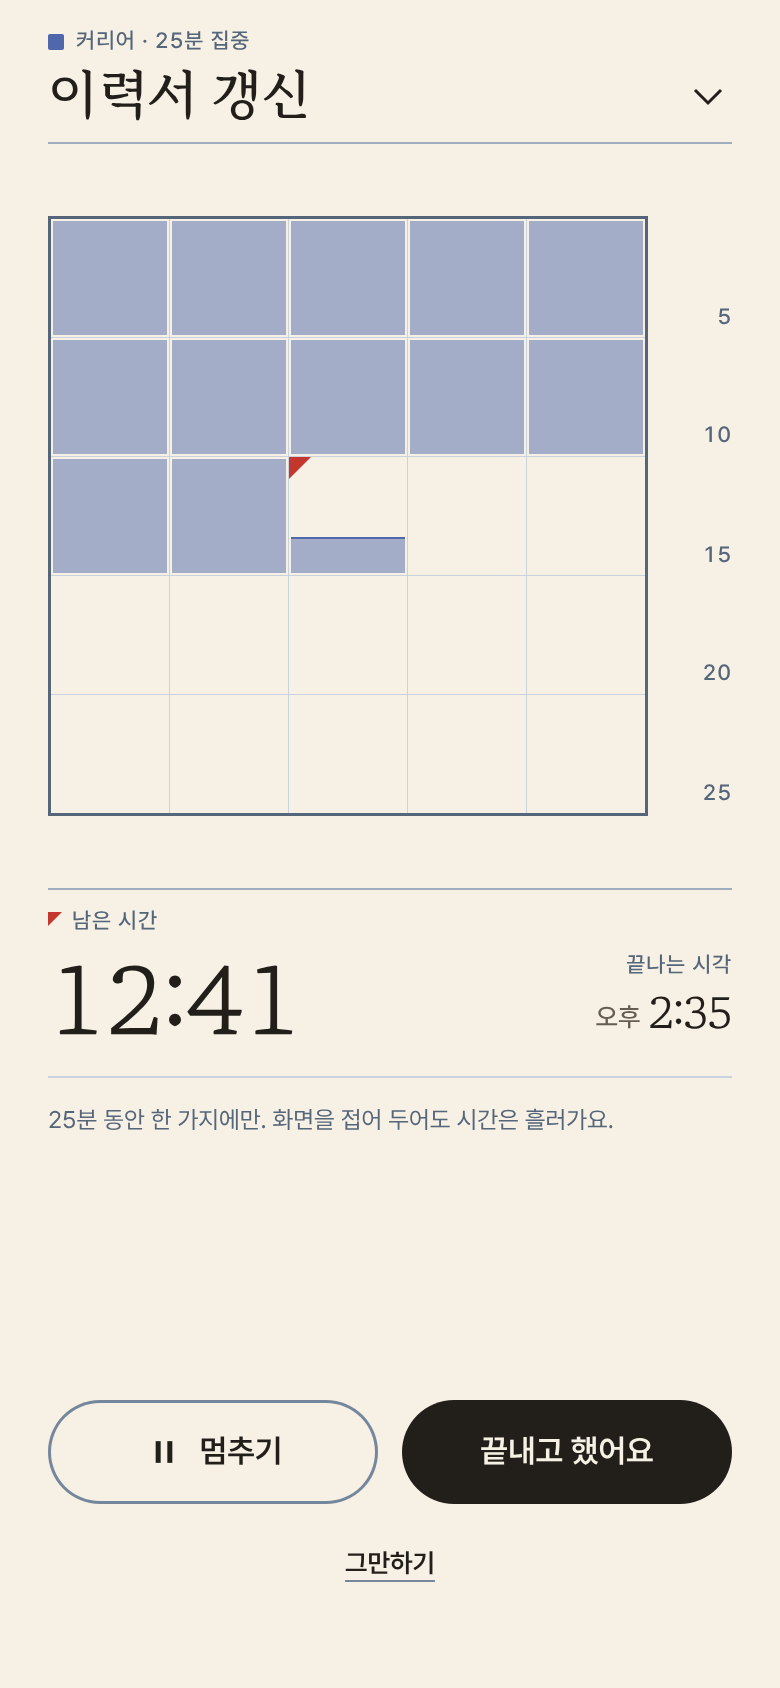
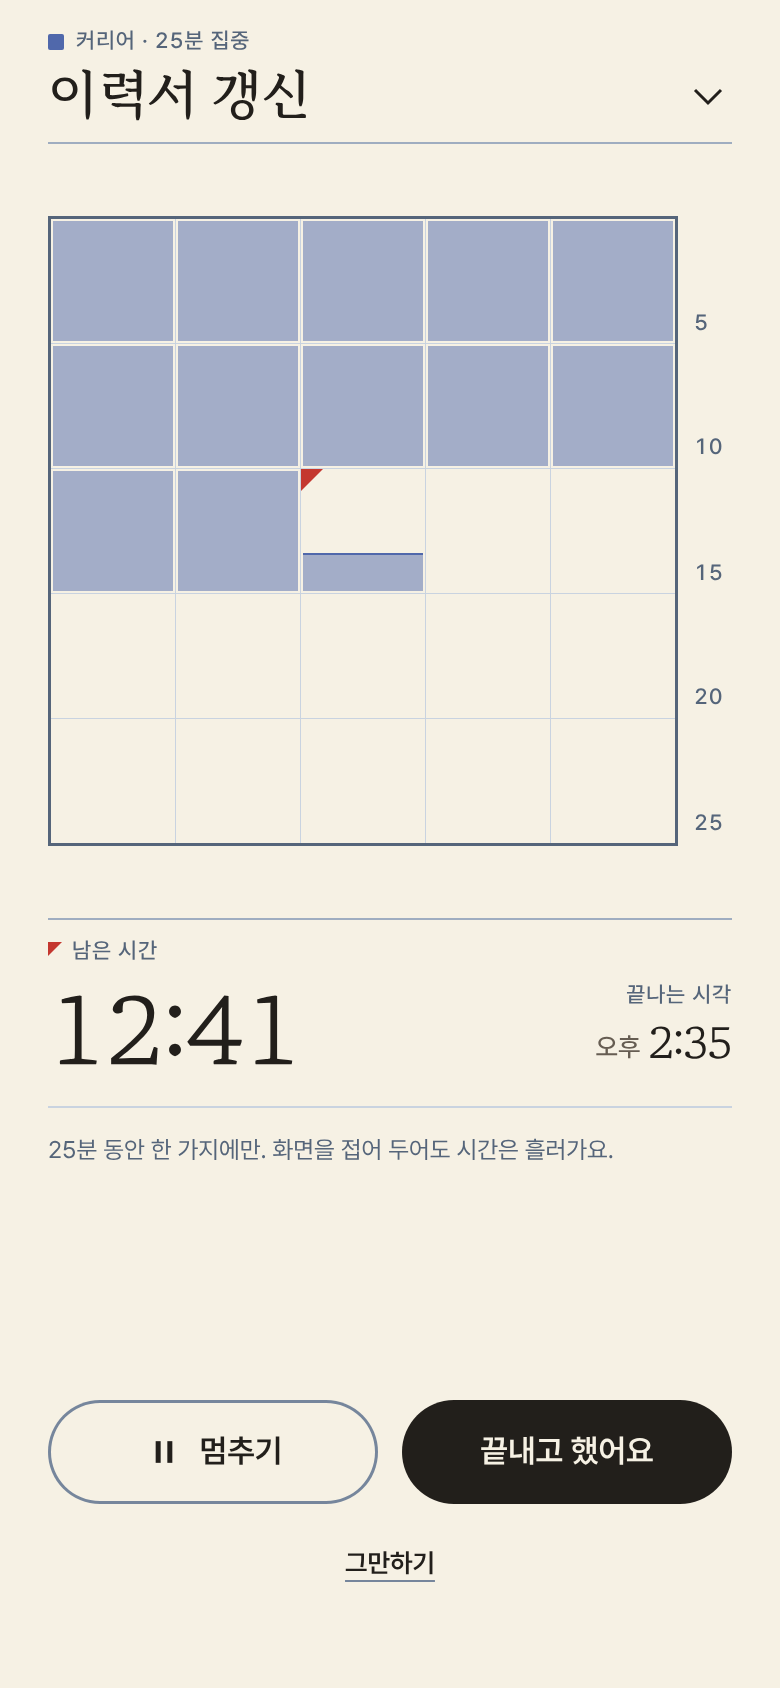
Design upgrade: direction A round 2 screens (editor, action sheet, focus, day close)
Claude-Session: https://claude.ai/code/session_016yGBuAcG4VRj4TxWfirsD3

diff --git a/docs/design/mockups/a/focus.html b/docs/design/mockups/a/focus.html
@@ -11,9 +11,9 @@
   /* 25분 집중: a full-screen page of the same notebook (no tab bar; it covers the app).
      Header anatomy as on every tab: eyebrow = the area and "25분 집중", title = the action in
      writing ink, one action = minimise (the session keeps running in a bar and the Live Activity).
-     Hero: the 25-minute form, one box per minute, 300pt on the left gutter with a printed minute ruler to its right.
+     Hero: the 25-minute form, one box per minute, 315pt on the left gutter with a printed minute ruler to its right.
      Under it one filled-in field: the time left in MaruBuri. Controls sit in the thumb zone. */
-  #minutes { margin: 36px 0 0; }  /* 300pt on the gutter; the minute ruler takes the 36pt to its right */
+  #minutes { margin: 36px 0 0; }  /* 315pt on the gutter; the minute ruler takes the 27pt to its right */
 
   .field { margin-top: 36px; border-top: var(--rule) solid var(--print-mid); border-bottom: var(--hair) solid var(--print-rule);
            display: flex; align-items: flex-end; justify-content: space-between; padding: 7px 0 10px; }
@@ -72,7 +72,7 @@ A.ready().then((doc) => {
   h.firstElementChild.innerHTML = `<i class="a-dye" style="--d:var(--dye-${area + 1})"></i>${row.area} · 25분 집중`;
   h.insertAdjacentHTML('beforeend', `<div class="a-header-action" aria-label="접어 두기">${A.glyph('down')}</div>`);
 
-  A.minutes('#minutes', { cell: 59, area, done: Math.floor(run / 60), frac: (run % 60) / 60 });
+  A.minutes('#minutes', { cell: 62, area, done: Math.floor(run / 60), frac: (run % 60) / 60 });
 
   const mm = Math.floor(left / 60), ss = String(left % 60).padStart(2, '0');
   document.querySelector('#clock').textContent = `${mm}:${ss}`;

diff --git a/docs/design/mockups/a/parts-focus-dayclose.js b/docs/design/mockups/a/parts-focus-dayclose.js
@@ -20,8 +20,8 @@
      opts.done     whole minutes finished (0..25).
      opts.frac     how far the current minute has run, 0..1. The current box fills from the bottom;
                    the level is a 1pt line of the area's dye (in the app: one native scaleY over 60 s).
-     opts.marks    true = print the minute count (5, 10, 15, 20, 25) as a ruler in a 36pt column to the
-                   right of the frame (outside the returned size), bottom-aligned with each row. Default true. */
+     opts.marks    true = print the minute count (5, 10, 15, 20, 25) as a ruler 8pt to the
+                   right of the frame, left-aligned (outside the returned size), bottom-aligned with each row. Default true. */
   A.minutes = function (target, opts) {
     opts = opts || {};
     const d = dpr();
@@ -72,7 +72,7 @@
     // the ruler is printed outside the frame, on paper, so it keeps its 5.3:1 against any fill
     if (opts.marks !== false) {
       for (let r = 0; r < 5; r++) {
-        html += `<span class="t-label" style="position:absolute;left:${size + 6}px;width:36px;top:${(xs[r] + c) / d - 16}px;text-align:right;line-height:12px">${(r + 1) * 5}</span>`;
+        html += `<span class="t-label" style="position:absolute;left:${size + 8}px;width:24px;top:${(xs[r] + c) / d - 16}px;text-align:left;line-height:12px">${(r + 1) * 5}</span>`;
       }
     }
     host.innerHTML = html;

diff --git a/docs/design/mockups/a/parts-sheets.js b/docs/design/mockups/a/parts-sheets.js
@@ -123,7 +123,7 @@
       focus: (() => {
         let r = `<rect x="3.75" y="3.75" width="16.5" height="16.5" rx="1" ${P}/>`;
         r += `<path d="M7.875 4.5v15M12 4.5v15M16.125 4.5v15M4.5 7.875h15M4.5 12h15M4.5 16.125h15" ${P} stroke-width="1" stroke-linecap="butt"/>`;
-        for (let i = 0; i < 6; i++) r += `<rect x="${3.75 + (i % 4) * 4.125}" y="${3.75 + Math.floor(i / 4) * 4.125}" width="4.125" height="4.125" fill="currentColor"/>`;
+        for (let i = 0; i < 3; i++) r += `<rect x="${3.75 + (i % 4) * 4.125}" y="${3.75 + Math.floor(i / 4) * 4.125}" width="4.125" height="4.125" fill="currentColor"/>`;
         return r;
       })(),
       bell: `<path d="M6.75 16.25V11a5.25 5.25 0 0 1 10.5 0v5.25l1.5 1.5H5.25z" ${P}/><path d="M10 20.25h4" ${P}/>`,
